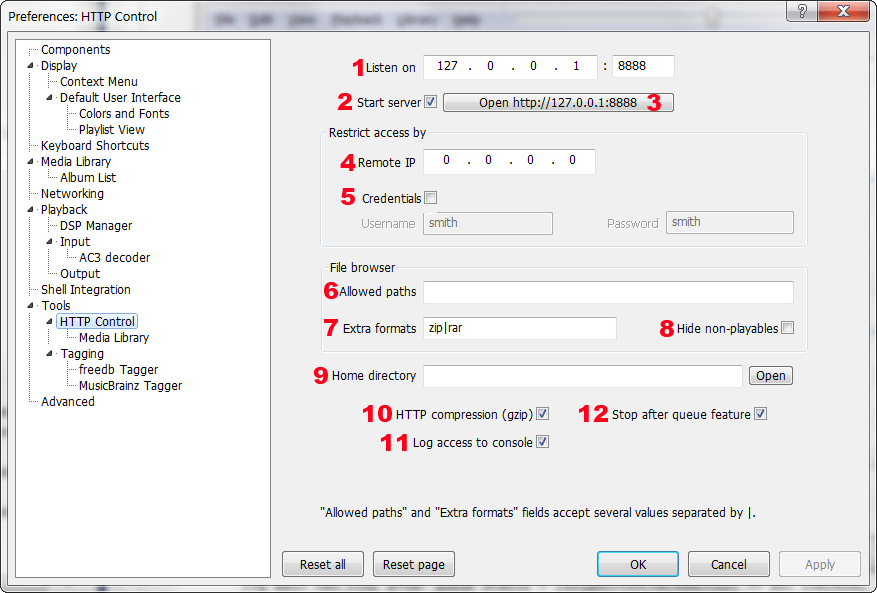
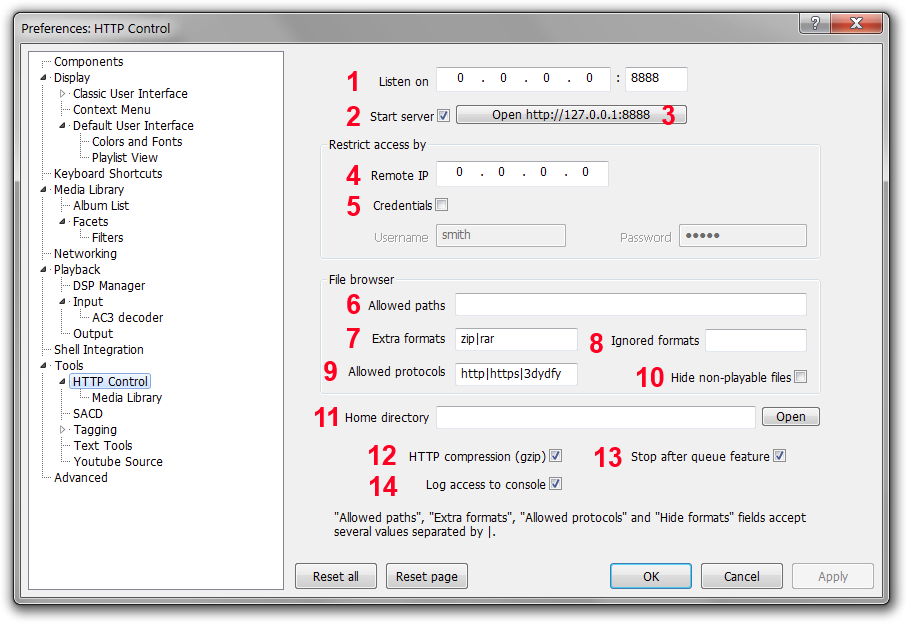
foo_httpcontrol: Customizable allowed protocols setting; Meaningful Browse command console error messages; 0.97.16 released

Changed region(s): [[0.0, 0.0, 1.0, 1.0], [0.6773, 0.3339, 0.9236, 0.425], [0.5234, 0.4553, 0.8928, 0.4857]]

diff --git a/foo_httpcontrol/readme.html b/foo_httpcontrol/readme.html
@@ -5,13 +5,30 @@
 <style type="text/css">
 	body{ font: 0.75em "Arial", sans-serif; margin: 10px; background-color: #ffffff; max-width: 800px; }
 	ul#commands li { margin-bottom: 0.5em; }
+	ol  {
+		list-style-type: none;
+		counter-reset: li-counter;
+	}
+	ol li:before {
+		font-weight: bold;
+		font-size: 2em;
+		color: red;
+		content: counter(li-counter);
+		counter-increment: li-counter;
+		padding-right: 0.5em;
+		margin-top: 0.5em;
+        }
+	ol li {
+		vertical-align: middle;
+		margin-bottom: 1em;
+	}
 	h2 {border-bottom: 1px solid gray}
 	h2#warn {color: red; border: 0px;}
 	p {text-indent: 2em; }
 </style>	
 </head>
 <body>
-<h2>foo_httpcontrol 0.97.15 02 Mar 2014</h2>
+<h2>foo_httpcontrol 0.97.16 13 Jan 2016</h2>
 <p><a href="http://code.google.com/p/foo-httpcontrol/">http://code.google.com/p/foo-httpcontrol</a></p>
 
 <h2 id="warn">Warning/disclaimer: this software comes without any warranties at all. It is still in the very early development stage, and so on, and so forth, blah-blah-blah.
@@ -60,6 +77,9 @@ customizing any template you are using, or even writing your very own one.</p>
 	<li>Limit access to component by defining a login/password pair. Untick to disable passwords.</li>
 	<li>Built-in file browser can be limited to certain paths of your file system. It is useful to simplify the browsing process or hide your secret files from prying eyes. For example, setting Allowed paths to d:\music|c:\temp\music|e:\ permits browsing only in these three file system branches.</li>
 	<li>You can specify additional file extensions to be treated as playable files by built-in file browser. It is required for opening archives containing playable files.</li>
+	<li>Ignore files with specific extensions in file browser.</li>
+	<li>Urls of specified protocols are allowed to be enqueued by Browse command. Enables enqueueing of urls handled by 3rd party components like foo_youtube (3dydfy protocol).<br>
+Suggested value setting: http|https</li>
 	<li>Removes all files which foobar2000 core considers unplayable from built-in file browser.</li>
 	<li>Specifies path where component will look for template files. Pressing Open opens specified or default directory in Explorer. If not sure, leave it blank. </li>
 	<li>Enables gzip compression of component output. Enabling it is usually harmless and quite beneficial as component generates a lot of text which is very compressible. Disable if you are using some funky browser and having unexpected problems.</li>
@@ -72,6 +92,15 @@ Don't forget to press Apply or your changes won't have any effect until fb2k is 
 
 <p>Discussion thread (please post all your questions and  suggestions  here):
 <a href="http://www.hydrogenaudio.org/forums/index.php?showtopic=62218">http://www.hydrogenaudio.org/forums/index.php?showtopic=62218</a></p>
+
+<h2>Changes history 2016</h2> 
+<p>v0.97.16 13 Jan</p>
+<ul>
+<li>add: Allowed protocols GUI setting: urls of specified protocols are allowed to be enqueued by Browse command. Previously the only hardcoded protocol was http. New setting also enables enqueueing of urls handled by 3rd party components like foo_youtube (3dydfy protocol).<br>
+Suggested value setting: http|https</li>
+<li>add: Meaningful console error messages when Browse command refuses to add specified file / location;</li>
+</ul>
+
 
 <h2>Changes history 2014</h2> 
 <p>v0.97.15 02 Mar</p>
@@ -420,14 +449,18 @@ example: ?cmd=PlayingCommand&amp;param1=Playback%20Statistics%2FRating%2F3</li>
         cmd=SetFocus<br/>
         param1=item starting from 0</li>
 
-<li>Browse directory<br/>
+<li>Enqueue single file or url<br/>
         cmd=Browse<br/>
-        param1=urlencoded path</li>
+        param1=urlencoded file path / url</li>
 
 <li>Enqueue path<br/>
+        cmd=Browse<br/>
+        param1=urlencoded path<br/>
         param2=EnqueueDir</li>
 
 <li>Enqueue path including subdirectories<br/>
+        cmd=Browse<br/>
+        param1=urlencoded path<br/>
         param2=EnqueueDirSubdirs</li>
         
 <li>Put active playlist items to playback queue <br/>

diff --git a/foo_httpcontrol/src/config.cpp b/foo_httpcontrol/src/config.cpp
@@ -28,6 +28,7 @@ void config_main::copy(const config_main &cfg)
 	gzip_enable = cfg.gzip_enable;
 	extra_formats = cfg.extra_formats;
 	ignored_formats = cfg.ignored_formats;
+	allowed_protocols = cfg.allowed_protocols;
 }
 
 void config_main::reset()
@@ -50,6 +51,7 @@ void config_main::reset()
 	gzip_enable = false;
 	extra_formats = "zip|rar";
 	ignored_formats = "";
+	allowed_protocols = "http|https|3dydfy";
 }
 
 void config_main::get_data_raw(stream_writer * p_stream,abort_callback & p_abort)
@@ -72,6 +74,7 @@ void config_main::get_data_raw(stream_writer * p_stream,abort_callback & p_abort
 	p_stream->write_lendian_t(gzip_enable, p_abort);
 	p_stream->write_string(extra_formats, p_abort);
 	p_stream->write_string(ignored_formats, p_abort);
+	p_stream->write_string(allowed_protocols, p_abort);
 }
 
 void config_main::set_data_raw(stream_reader * p_stream,unsigned p_sizehint,abort_callback & p_abort)
@@ -94,6 +97,7 @@ void config_main::set_data_raw(stream_reader * p_stream,unsigned p_sizehint,abor
 	p_stream->read_lendian_t(gzip_enable, p_abort);
 	p_stream->read_string(extra_formats, p_abort);
 	p_stream->read_string(ignored_formats, p_abort);
+	p_stream->read_string(allowed_protocols, p_abort);
 }
 
 bool config_main::operator == (const config_main &c)
@@ -115,7 +119,8 @@ bool config_main::operator == (const config_main &c)
 		&&(c.stop_after_queue_enable == stop_after_queue_enable)
 		&&(c.gzip_enable == gzip_enable)
 		&&(c.extra_formats == extra_formats)
-		&&(c.ignored_formats == ignored_formats));
+		&&(c.ignored_formats == ignored_formats)
+		&&(c.allowed_protocols == allowed_protocols));
 }
 
 void config_misc::reset()
@@ -285,6 +290,10 @@ void preferences_page_main::OnCommand(UINT uNotifyCode, int nID, CWindow wndCtl)
 			cfg_main_new.ignored_formats = string_utf8_from_window(GetDlgItem(nID));
 			cfg_main_new.ignored_formats = trim(cfg_main_new.ignored_formats);
 			break;
+		case IDC_ALLOWED_PROTOCOLS | (EN_CHANGE << 16):
+			cfg_main_new.allowed_protocols = string_utf8_from_window(GetDlgItem(nID));
+			cfg_main_new.allowed_protocols = trim(cfg_main_new.allowed_protocols);
+			break;
 		case IDC_STOP_AFTER_QUEUE_ENABLE | (BN_CLICKED << 16):
 			cfg_main_new.stop_after_queue_enable = IsDlgButtonChecked(nID) == BST_CHECKED;
 			break;
@@ -339,6 +348,7 @@ void preferences_page_main::updateDialog()
 	uSetDlgItemText(m_hWnd,IDC_CONTROL_PATH,cfg_main_new.restrict_to_path);
 	uSetDlgItemText(m_hWnd,IDC_EXTRA_FORMATS,cfg_main_new.extra_formats);
 	uSetDlgItemText(m_hWnd,IDC_IGNORED_FORMATS,cfg_main_new.ignored_formats);
+	uSetDlgItemText(m_hWnd,IDC_ALLOWED_PROTOCOLS,cfg_main_new.allowed_protocols);
 	uSetDlgItemText(m_hWnd,IDC_SERVER_ROOT,cfg_main_new.server_root);
 	CheckDlgButton(IDC_STOP_AFTER_QUEUE_ENABLE,cfg_main_new.stop_after_queue_enable);
 	CheckDlgButton(IDC_GZIP_ENABLE,cfg_main_new.gzip_enable);
@@ -381,6 +391,8 @@ void preferences_page_main::apply() {
 		httpc::control_credentials_auth_hash_update();
 
 		httpc::get_registered_extensions();
+
+		httpc::set_allowed_protocols();
 
 		httpc::build_restrict_to_path_list();
 

diff --git a/foo_httpcontrol/src/commands.cpp b/foo_httpcontrol/src/commands.cpp
@@ -27,8 +27,10 @@ namespace control
 				{
 					const char *item_path = p_items[i]->get_path();
 
-					if (httpc::is_extension_registered(item_path) != -1 || httpc::is_protocol_registered(item_path))
+					if (httpc::is_extension_registered(item_path) != -1 || httpc::is_protocol_allowed(item_path))
 						p_items_toadd.add_item(p_items[i]);
+					else
+						foo_error(pfc::string8() << "skipping \"" << item_path << "\": unrecognized extension or not allowed protocol");
 				}
 
 				plm->activeplaylist_add_items(p_items_toadd, bit_array_true());
@@ -754,7 +756,7 @@ namespace control
 				}
 				catch (pfc::exception &e)
 				{
-					console::error(e.what());
+					foo_error(e.what());
 				}
 
 				if (apm->is_client_present(playlist))
@@ -830,20 +832,36 @@ namespace control
 		list_t<const char *> files;	// files/dirs to be enqueued
 		pfc::string8 filename = param1;
 
-		if (( httpc::is_extension_registered(filename) != pfc::infinite_size || httpc::is_protocol_registered(filename) ) && param2.get_length() == 0 // adding a single file 
-			|| strcmp(param2, "EnqueueDirSubdirs") == 0) // adding a nested directory
+		if (param1.get_length() == 0)
+			foo_error("param1 cannot be empty");
+
+		if (param2.get_length() > 0 &&
+				(strcmp(param2, "EnqueueDir") != 0 && strcmp(param2, "EnqueueDirSubdirs") != 0))
+			foo_error(pfc::string8() << "unsupported param2 value: \"" << param2 << "\"");
+
+		if (( httpc::is_extension_registered(filename) != pfc::infinite_size || httpc::is_protocol_allowed(filename) ) && param2.get_length() == 0)  // adding a single file 
 			files.add_item(filename);
 		else
-		if (strcmp(param2, "EnqueueDir") == 0) // adding a directory without nesting;
+			if (param2.get_length() == 0)
+				foo_error(pfc::string8() << "skipping \"" << filename << "\": unrecognized extension or not allowed protocol");
+
+		if (param1.get_length() != 0 && param2.get_length() != 0)
 		{
-			browser.browse(const_cast<char *>(filename.operator const char *()));
+			if (strcmp(param2, "EnqueueDirSubdirs") == 0) // adding a nested directory
+			{
+				files.add_item(filename);
+			}
+			if (strcmp(param2, "EnqueueDir") == 0) // adding a directory without nesting;
+			{
+				browser.browse(const_cast<char *>(filename.operator const char *()));
 
-			t_size l = browser.entries.get_count();
-			for(unsigned int i = 0; i < l; ++i)
-				if (browser.entries[i].type != foo_browsefiles::ET_DIR)
-						files.add_item(browser.entries[i].path);
+				t_size l = browser.entries.get_count();
+				for(unsigned int i = 0; i < l; ++i)
+					if (browser.entries[i].type != foo_browsefiles::ET_DIR)
+							files.add_item(browser.entries[i].path);
+				}
 		}
-
+		
 		if (files.get_count())	// if there is anything to enqueue
 		{
 			static_api_ptr_t<playlist_manager>()->activeplaylist_undo_backup();

diff --git a/foo_httpcontrol/src/state.cpp b/foo_httpcontrol/src/state.cpp
@@ -61,6 +61,7 @@ namespace httpc {
 	pfc::string_simple control_credentials_auth_hash;
 	pfc::list_t<pfc::string_simple> extensions;		// registered extensions
 	pfc::list_t<pfc::string_simple> extension_names;// registered extension names
+	pfc::list_t<pfc::string_simple> allowed_protocols;		// allowed protocols
 	pfc::string8	restrict_mask;					// restrict mask based on registered extensions
 	pfc::list_t<playlist_info> playlist_list;		// list of playlists
 	pfc::string8 fb2k_profile_path;
@@ -568,13 +569,13 @@ namespace httpc {
 		return pfc::infinite_size;
 	}
 
-	bool is_protocol_registered(const char *path)
+	bool is_protocol_allowed(const char *path)
 	{
-		// hardcoding protocols since there seems to be no way of interrogating fb2k for supported protocols list
-		// protocol should be lowercase so no case insensitive comparision is required
+		size_t c = httpc::allowed_protocols.get_count();
 
-		if (strstr(path, "http://") == path)	
-			return true;
+		for(size_t i = 0; i < c; ++i)
+			if (matchProtocol(path, allowed_protocols[i]))
+				return true;
 
 		return false;
 	}
@@ -671,6 +672,22 @@ namespace httpc {
 			restrict_mask << "*." << extensions[i];
 			if (i != extensions.get_count() - 1 )
 				restrict_mask << ";";
+		}
+	}
+
+	void set_allowed_protocols()
+	{
+		pfc::list_t<pfc::string8> protocols;
+		pfc::splitStringSimple_toList(protocols, '|', cfg.main.allowed_protocols);
+		pfc::string8 protocol;
+
+		httpc::allowed_protocols.remove_all();
+		for (t_size i = 0; i < protocols.get_count(); ++i)
+		{
+			protocol = trim(protocols[i]);
+
+			if (protocol.get_length())
+				httpc::allowed_protocols.add_item(protocol);
 		}
 	}
 

diff --git a/foo_httpcontrol/src/state.h b/foo_httpcontrol/src/state.h
@@ -95,6 +95,7 @@ namespace httpc {
 	extern pfc::string_simple control_credentials_auth_hash;
 	extern pfc::list_t<pfc::string_simple> extensions;
 	extern pfc::list_t<pfc::string_simple> extension_names;
+	extern pfc::list_t<pfc::string_simple> allowed_protocols;
 	extern pfc::string8	restrict_mask;
 	extern pfc::list_t<playlist_info> playlist_list;
 	extern pfc::string8 fb2k_profile_path;
@@ -122,8 +123,9 @@ namespace httpc {
 	extern void empty_previouslyplayed();
 
 	extern void get_registered_extensions();
+	extern void set_allowed_protocols();
 	extern size_t is_extension_registered(const char *path); // infininte if not registered, list index elsewere
-	extern bool is_protocol_registered(const char *path);
+	extern bool is_protocol_allowed(const char *path);
 
 	extern void choose_srv_home_dir();
 	extern void build_restrict_to_path_list();

diff --git a/foo_httpcontrol/src/resource.h b/foo_httpcontrol/src/resource.h
@@ -4,6 +4,7 @@
 
 #define IDD_TAB1                                101
 #define IDD_TAB3                                104
+#define IDC_ALLOWED_PROTOCOLS                   1000
 #define IDC_INTERFACE                           1001
 #define IDC_PORT                                1002
 #define IDC_CONTROL_IP                          1003

diff --git a/foo_httpcontrol/src/callbacks.cpp b/foo_httpcontrol/src/callbacks.cpp
@@ -229,6 +229,9 @@ public:
 
 		// get registered extensions list
 		httpc::get_registered_extensions();
+
+		httpc::set_allowed_protocols();
+
 		httpc::control_credentials_auth_hash_update();
 
 		// getting hang of where do we get templates and stuff

diff --git a/foo_httpcontrol/src/config.h b/foo_httpcontrol/src/config.h
@@ -45,6 +45,7 @@ public:
 	bool			gzip_enable;
 	pfc::string8	extra_formats;
 	pfc::string8	ignored_formats;
+	pfc::string8	allowed_protocols;
 
 	config_main() { reset(); }
 	config_main(const config_main &cfg) { copy(cfg); }

diff --git a/foo_httpcontrol/src/httpcontrol.cpp b/foo_httpcontrol/src/httpcontrol.cpp
@@ -3,7 +3,7 @@
 
 DECLARE_COMPONENT_VERSION(
 	"HTTP Control",
-	"0.97.15",
+	"0.97.16",
 	"control foobar2000 via http "__DATE__)
 	
 VALIDATE_COMPONENT_FILENAME("foo_httpcontrol.dll");
